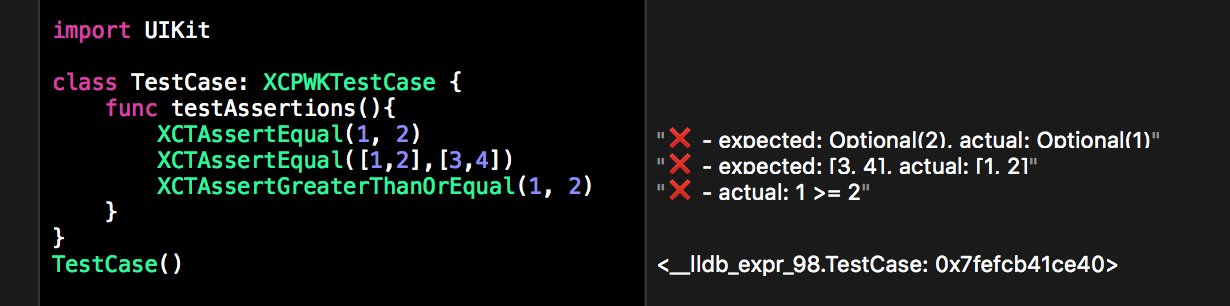
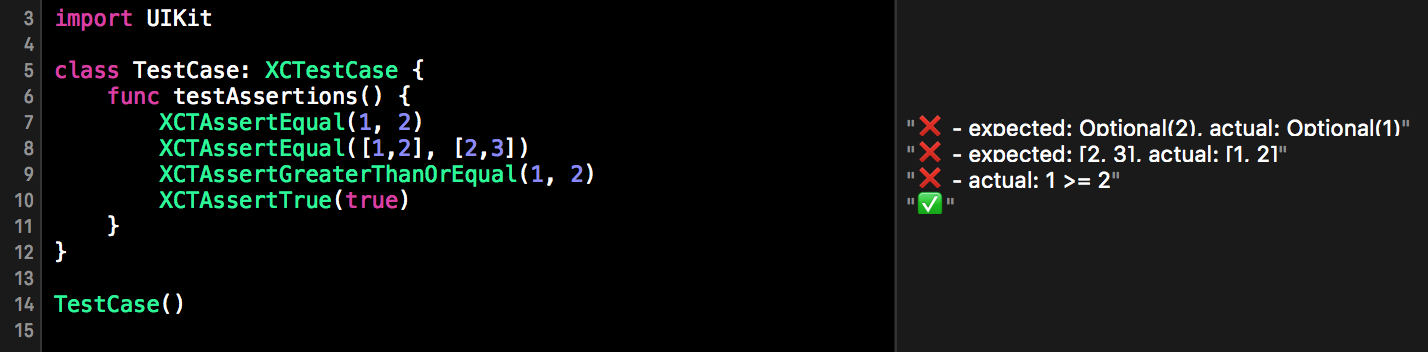
* renamed base Test class to XCTestCase, updated README and screenshot * added setup() * fixed not running test methods on main thread, refactoring

diff --git a/XCTestPlayground.swift b/XCTestPlayground.swift
@@ -107,11 +107,15 @@ func failMessage(message: String) -> String {
 
 // This class was based on GitHub gist: https://gist.github.com/croath/a9358dac0530d91e9e2b
 
-public class XCPWKTestCase: NSObject {
+public class XCTestCase: NSObject {
     
     public override init(){
         super.init()
         self.runTestMethods()
+    }
+
+    public func setup() {
+    
     }
     
     private func runTestMethods(){
@@ -119,12 +123,14 @@ public class XCPWKTestCase: NSObject {
         var mlist: UnsafeMutablePointer<Method> = class_copyMethodList(self.dynamicType.classForCoder(), &mc);
         for var i: CUnsignedInt = 0; i < mc; i++ {
             let m = method_getName(mlist.memory)
-            if i == 0 || !String(m).hasPrefix("test") {
-                mlist = mlist.successor()
-                continue
+            if String(m).hasPrefix("test") {
+                setup()
+                self.performSelectorOnMainThread(m, withObject: nil, waitUntilDone: true)
             }
-            NSThread.detachNewThreadSelector(m, toTarget:self, withObject: nil)
             mlist = mlist.successor()
         }
+    }
+    override public var description: String {
+        return ""
     }
 }

diff --git a/README.md b/README.md
@@ -7,7 +7,7 @@ With the Playground feature that display the result of an executed line, it will
 
 I use this to do TDD directly inside a Playground and then move the code as-is inside my test files.
 
-It also contains a XCPWKTestCase base class that, when instantiated, will run all methods with names beginning with "test", to mimic XCTestCase behaviour and make moving the code to your Xcode project easier
+It also contains a XCTestCase base class that, when instantiated, will run all methods with names beginning with "test", to mimic XCTestCase behaviour and make moving the code to your Xcode project easier
 
 ## How to install
 
